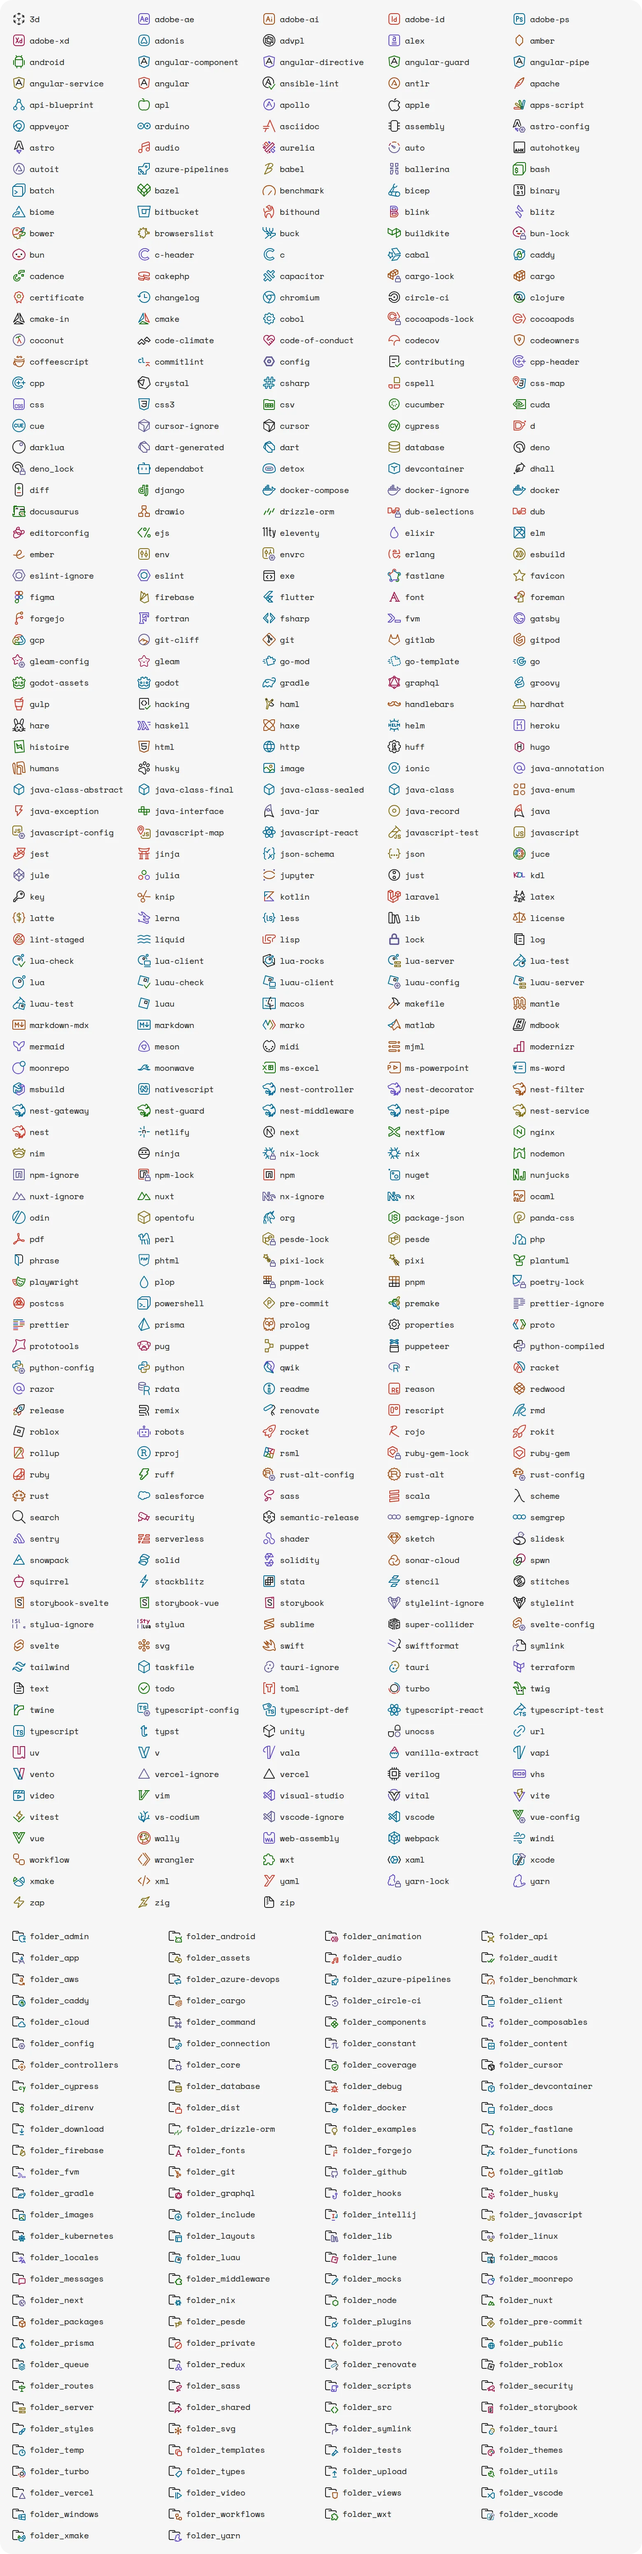
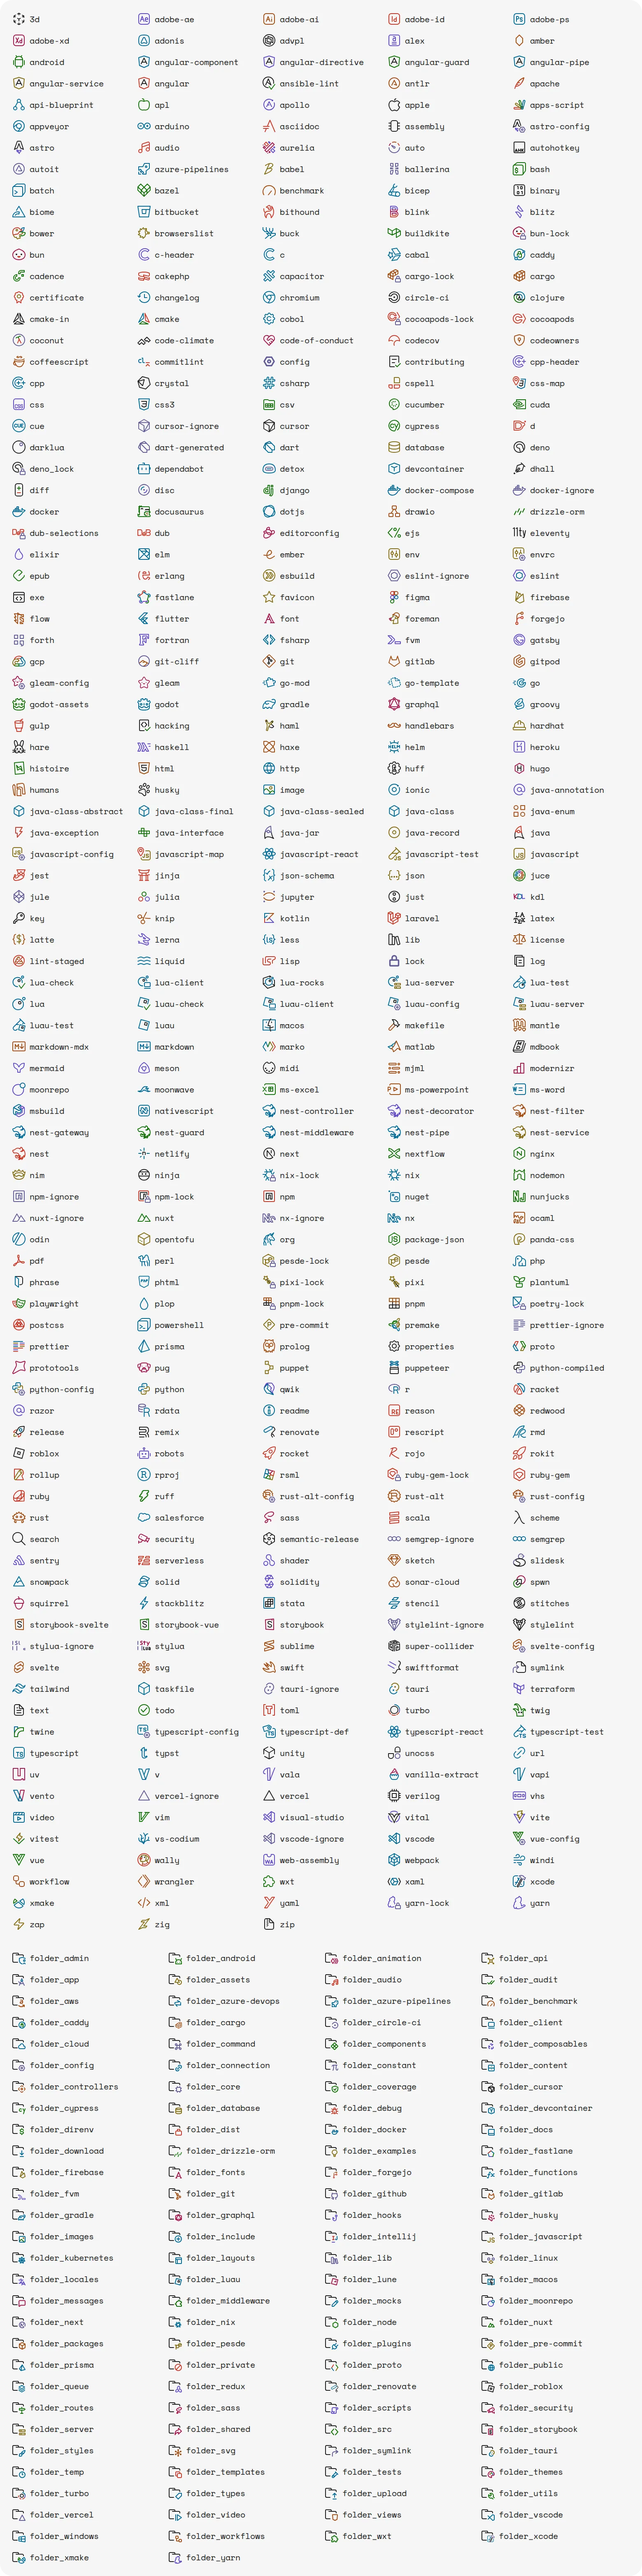
+5 iconos 5.

diff --git a/src/defaults/fileIcons.ts b/src/defaults/fileIcons.ts
@@ -712,6 +712,19 @@ const fileIcons: FileIcons = {
   'diff': {
     languageIds: ['diff'],
   },
+  'disc': {
+    fileExtensions: [
+      'iso',
+      'vcd',
+      'cue',
+      'dmg',
+      'hdd',
+      'vmdk',
+      'qcow',
+      'qcow2',
+      'qed',
+    ],
+  },
   'django': {
     languageIds: [
       'django-html',
@@ -850,6 +863,13 @@ const fileIcons: FileIcons = {
       'docusaurus.config.ts',
     ],
   },
+  'dotjs': {
+    fileExtensions: [
+      'def',
+      'dot',
+      'jst',
+    ],
+  },
   'drawio': {
     fileExtensions: [
       'drawio',
@@ -941,6 +961,12 @@ const fileIcons: FileIcons = {
   'envrc': {
     fileNames: ['.envrc'],
   },
+  'epub': {
+    fileExtensions: [
+      'epub',
+      'epub3',
+    ],
+  },
   'erlang': {
     languageIds: ['erlang'],
     fileExtensions: ['erl'],
@@ -1014,6 +1040,11 @@ const fileIcons: FileIcons = {
       'firestore.indexes.json',
     ],
   },
+  'flow': {
+    fileNames: [
+      '.flowconfig',
+    ],
+  },
   'flutter': {
     fileNames: [
       '.flutter-plugins',
@@ -1044,6 +1075,13 @@ const fileIcons: FileIcons = {
     fileNames: [
       'foreman.toml',
       'aftman.toml',
+    ],
+  },
+  'forth': {
+    fileExtensions: [
+      '4th',
+      'fth',
+      'frt',
     ],
   },
   'fortran': {

diff --git a/src/defaults/folderIcons.ts b/src/defaults/folderIcons.ts
@@ -499,7 +499,10 @@ const folderIcons: FolderIcons = {
     folderNames: ['nix'],
   },
   'node': {
-    folderNames: ['node_modules'],
+    folderNames: [
+      'node_modules',
+      'node',
+    ],
   },
   'nuxt': {
     folderNames: [
